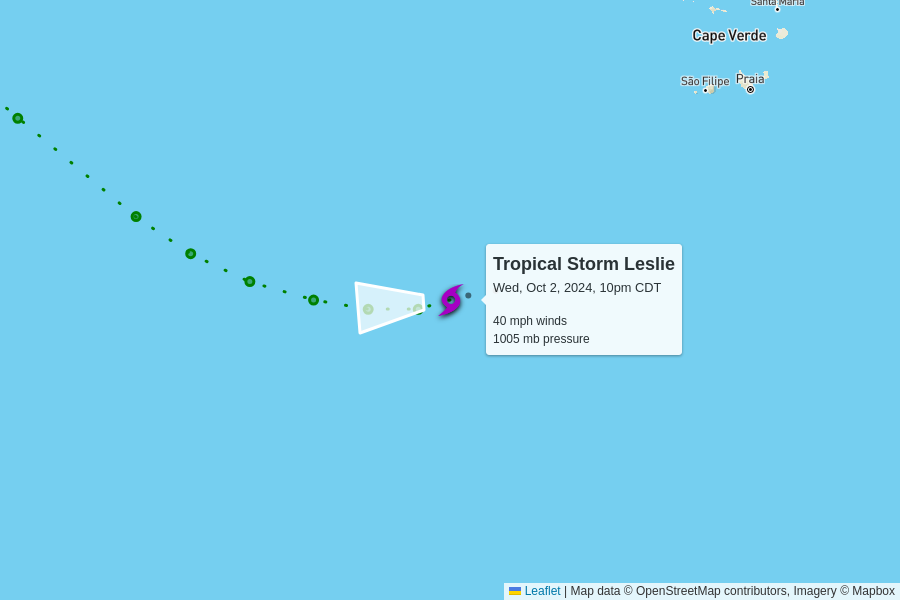
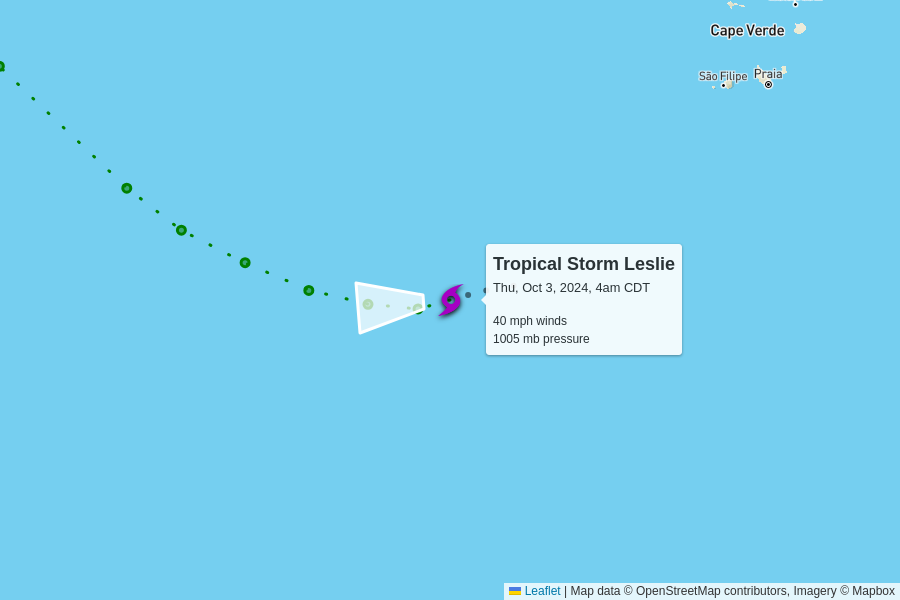
automatic update

diff --git a/docs/index.html b/docs/index.html
@@ -104,7 +104,7 @@
         <td colspan="6" class="storm category-3" >
           <h2>
             Hurricane Kirk - Category 3
-            <p class="updated">last updated <span data-time>2024-10-03T03:00:00.000Z</span></p>
+            <p class="updated">last updated <span data-time>2024-10-03T09:00:00.000Z</span></p>
           </h2>
         </td>
       </tr>
@@ -119,12 +119,12 @@
       </tr>
       <tr>
         <td class="spacer"></td>
-        <td>125 mph<br>+5 mph since last update</td>
-        <td>952 mb<br>-3 mb since last update</td>
+        <td>120 mph<br>-5 mph since last update</td>
+        <td>955 mb<br>+3 mb since last update</td>
         <td>
           10 mph to the northwest
           <br/>
-          <span style="display: inline-block; font-size: 1.5em; transform: rotate(310deg);">↑</span>
+          <span style="display: inline-block; font-size: 1.5em; transform: rotate(315deg);">↑</span>
         </td>
         <td><a href="https://raw.githubusercontent.com/mgwalker/atlantic-hurricanes/main/data/csv/AL122024.csv">AL122024.csv</a></td>
         <td><a href="https://www.nhc.noaa.gov/archive/2024/KIRK.shtml?">NHC advisories</a></td>
@@ -148,7 +148,7 @@
         <td colspan="6" class="storm category-0" >
           <h2>
             Tropical Storm Leslie
-            <p class="updated">last updated <span data-time>2024-10-03T03:00:00.000Z</span></p>
+            <p class="updated">last updated <span data-time>2024-10-03T09:00:00.000Z</span></p>
           </h2>
         </td>
       </tr>
@@ -163,8 +163,8 @@
       </tr>
       <tr>
         <td class="spacer"></td>
-        <td>40 mph<br>+5 mph since last update</td>
-        <td>1005 mb<br>-1 mb since last update</td>
+        <td>40 mph<br>0 mph since last update</td>
+        <td>1005 mb<br>0 mb since last update</td>
         <td>
           6 mph to the west
           <br/>
